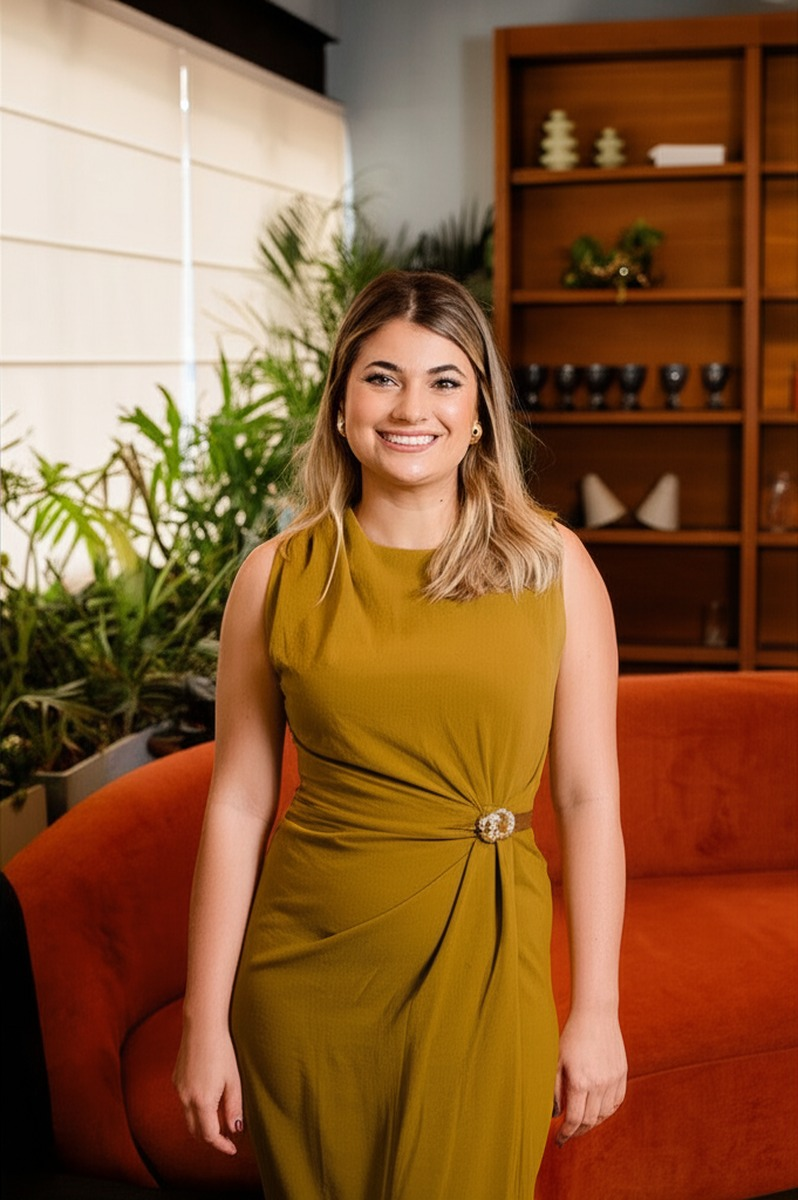
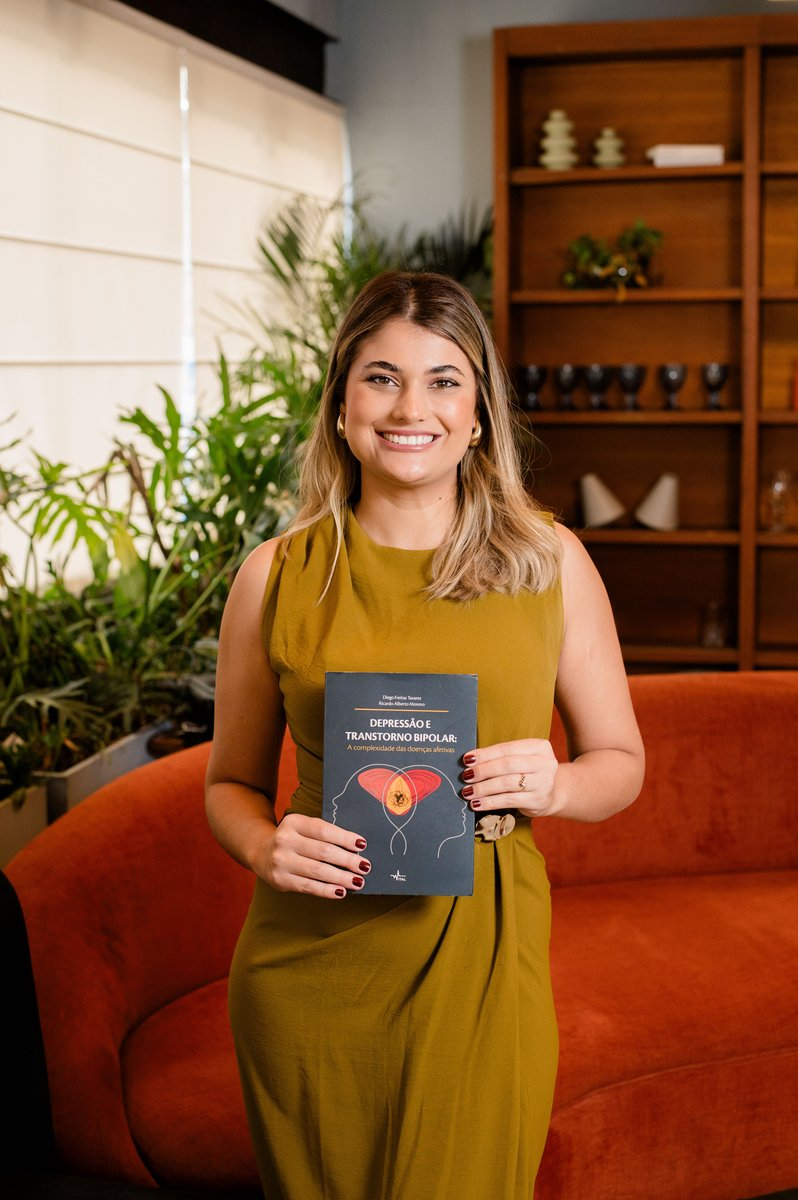
Reverter foto hero para original (com livro) + remover zoom extra

diff --git a/css/style.css b/css/style.css
@@ -330,7 +330,7 @@ h1, h2, h3, h4 {
   height: 100%;
   object-fit: cover;
   object-position: center 20%;
-  transform: scale(1.25);
+  transform: scale(1);
 }
 
 /* ===== BUTTONS ===== */
